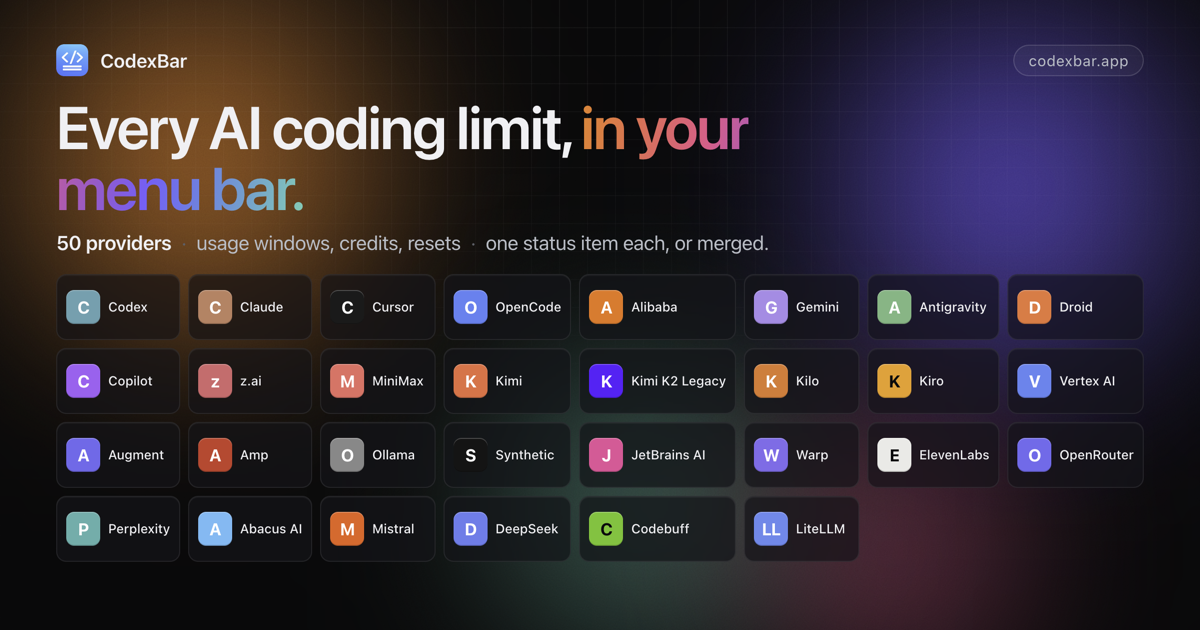
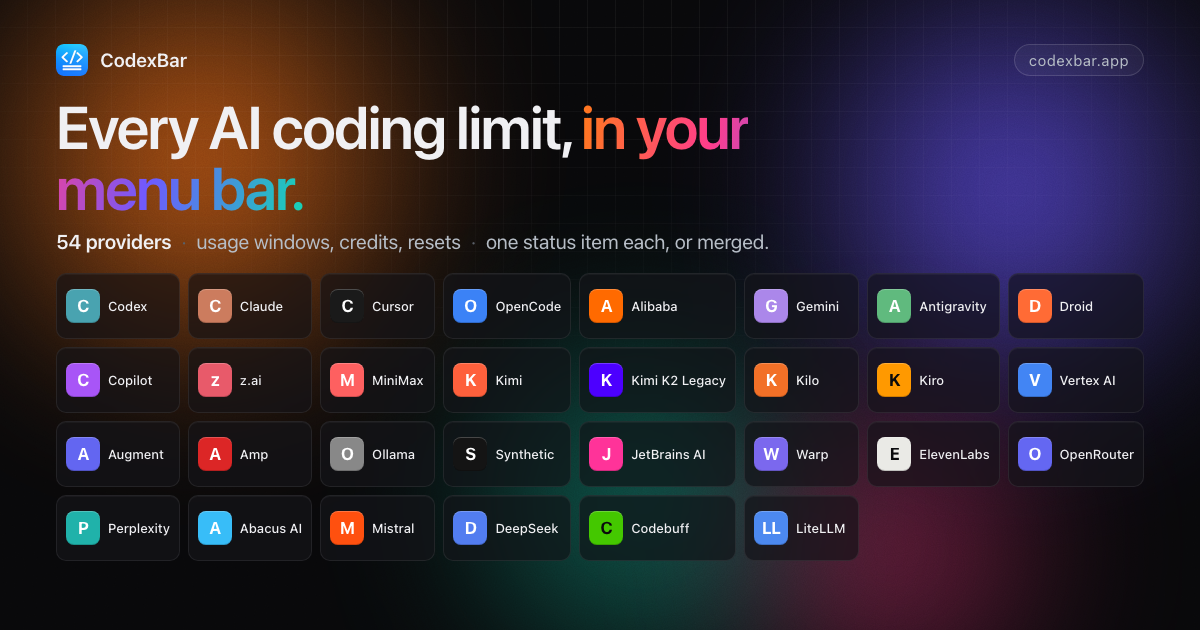
Document Sakana AI provider

diff --git a/docs/index.html b/docs/index.html
@@ -6,7 +6,7 @@
     <title>CodexBar — every AI coding limit in your menu bar</title>
     <meta
       name="description"
-      content="A tiny macOS menu bar app that tracks AI coding-provider usage windows, credits, costs, and resets across 53 providers — Codex, OpenAI, Claude, Cursor, Gemini, Copilot, LiteLLM, and more."
+      content="A tiny macOS menu bar app that tracks AI coding-provider usage windows, credits, costs, and resets across 54 providers — Codex, OpenAI, Claude, Cursor, Gemini, Copilot, LiteLLM, and more."
     />
     <meta name="theme-color" content="#0a0a0c" />
     <link rel="canonical" href="https://codexbar.app/" />
@@ -36,7 +36,7 @@
     <meta property="og:title" content="CodexBar" />
     <meta
       property="og:description"
-      content="Track usage windows, credits, and resets across 53 AI coding providers from your macOS menu bar."
+      content="Track usage windows, credits, and resets across 54 AI coding providers from your macOS menu bar."
     />
     <meta property="og:type" content="website" />
     <meta property="og:url" content="https://codexbar.app/" />
@@ -168,7 +168,7 @@
 
       <section class="providers" aria-labelledby="providers-h">
         <header class="section-head">
-          <h2 id="providers-h" data-i18n="providers.title">53 providers, one menu bar</h2>
+          <h2 id="providers-h" data-i18n="providers.title">54 providers, one menu bar</h2>
           <p data-i18n="providers.description">Popular providers become status items with their own usage windows, reset countdowns, charts, and provider menus.</p>
         </header>
         <ul class="grid">

diff --git a/docs/social.html b/docs/social.html
@@ -199,7 +199,7 @@
 
       <div>
         <h1>Every AI coding limit, <span class="grad">in your menu&nbsp;bar.</span></h1>
-        <p class="sub"><strong>53 providers</strong><span class="dot">·</span>usage windows, credits, resets<span class="dot">·</span>one status item each, or merged.</p>
+        <p class="sub"><strong>54 providers</strong><span class="dot">·</span>usage windows, credits, resets<span class="dot">·</span>one status item each, or merged.</p>
       </div>
 
       <ul class="grid">

diff --git a/README.md b/README.md
@@ -9,7 +9,7 @@
 [![License: MIT](https://img.shields.io/badge/license-MIT-6e5aff?style=flat-square)](LICENSE)
 [![Site](https://img.shields.io/badge/site-codexbar.app-16d3b4?style=flat-square)](https://codexbar.app)
 
-<a href="https://codexbar.app"><img src="docs/social.png" alt="CodexBar — every AI coding limit in your menu bar. 53 providers." width="100%" /></a>
+<a href="https://codexbar.app"><img src="docs/social.png" alt="CodexBar — every AI coding limit in your menu bar. 54 providers." width="100%" /></a>
 
 Tiny macOS 14+ menu bar app that keeps **AI coding-provider limits visible** and shows when each window resets. Codex, OpenAI, Claude, Cursor, Gemini, Copilot, Grok, GroqCloud, ElevenLabs, Deepgram, z.ai, MiniMax, Kiro, Zed, Vertex AI, Augment, OpenRouter, LiteLLM, LLM Proxy, Codebuff, Command Code, AWS Bedrock, and many newer coding providers. One status item per provider, or Merge Icons mode with a provider switcher. No Dock icon, minimal UI, dynamic bar icons.
 
@@ -110,6 +110,7 @@ See [CLI configuration](docs/cli-configuration.md) for the full flow.
 - Perplexity — Account usage credits from Perplexity usage data.
 - [Xiaomi MiMo](docs/mimo.md) — Browser cookies for balance and token-plan usage.
 - [Doubao](docs/doubao.md) — API key for Volcengine Ark request-limit probes.
+- [Sakana AI](docs/providers.md#sakana-ai) — Manual Cookie header for 5-hour and weekly quota windows.
 - [Abacus AI](docs/abacus.md) — Browser cookie auth for ChatLLM/RouteLLM compute credit tracking.
 - Mistral — Browser cookies for monthly spend tracking.
 - [DeepSeek](docs/deepseek.md) — API key for credit balance tracking (paid vs. granted breakdown).

diff --git a/docs/providers.md b/docs/providers.md
@@ -8,7 +8,7 @@ read_when:
 
 # Providers
 
-CodexBar currently registers 53 provider IDs. Some companies expose multiple surfaces, such as Codex vs OpenAI API or
+CodexBar currently registers 54 provider IDs. Some companies expose multiple surfaces, such as Codex vs OpenAI API or
 OpenCode vs OpenCode Go, because the auth source and quota shape differ.
 
 ## Fetch strategies (current)
@@ -56,6 +56,7 @@ headers, source selection, provider ordering, and token accounts are stored in `
 | Perplexity | Browser cookies/manual cookie/env session token → credits API (`web`). |
 | Xiaomi MiMo | Browser cookies → balance/token plan endpoints (`web`). |
 | Doubao | API key from config/env → Volcengine Ark chat-completions probe (`api`). |
+| Sakana AI | Manual Cookie header → billing page parser for 5-hour and weekly quota windows (`web`). |
 | Abacus AI | Browser cookies → compute points + billing API (`web`). |
 | Mistral | Console billing and Vibe subscription usage via browser cookies (`web`). |
 | DeepSeek | API key from env or token accounts → balance endpoint (`api`). |
@@ -313,6 +314,11 @@ headers, source selection, provider ordering, and token accounts are stored in `
 - Probes Volcengine Ark chat completions and reads request rate-limit headers when present.
 - Status: none yet.
 - Details: `docs/doubao.md`.
+
+## Sakana AI
+- Manual `Cookie:` header from `console.sakana.ai`; no automatic browser import.
+- Reads the billing page and surfaces 5-hour and weekly quota windows when present.
+- Status: none yet.
 
 ## Abacus AI
 - Browser cookies (`abacus.ai`, `apps.abacus.ai`) via automatic import or manual header.
